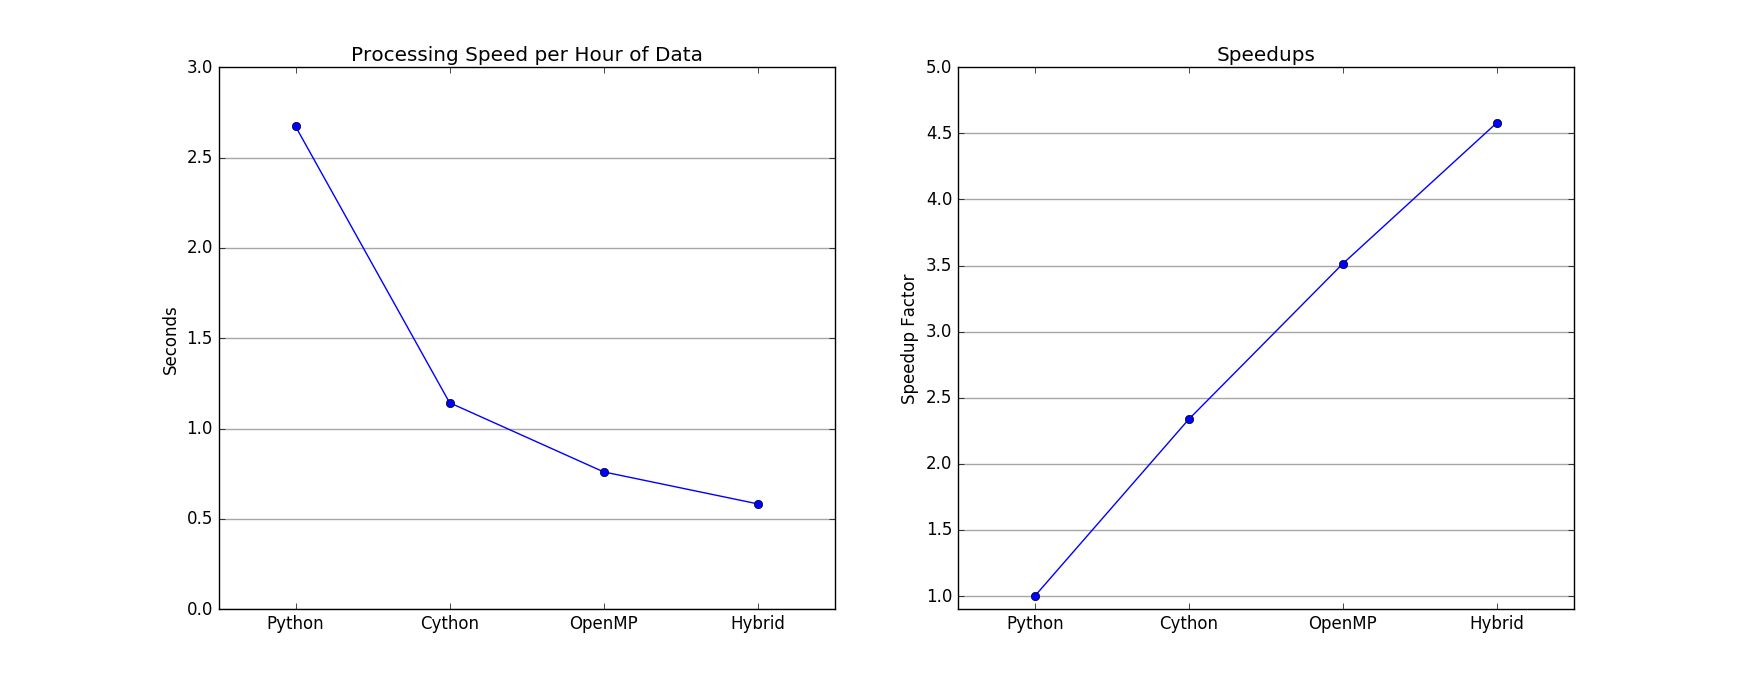
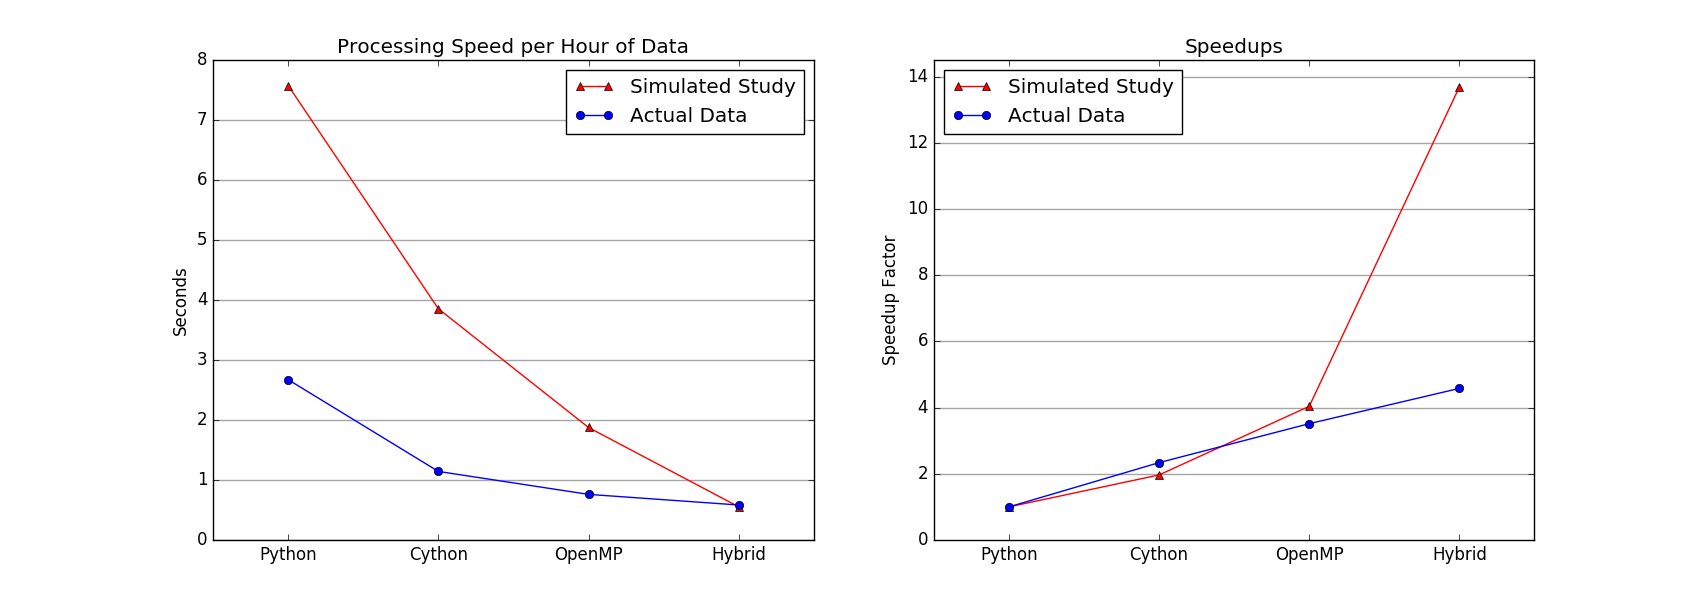
update with simulated data

diff --git a/README.md b/README.md
@@ -54,12 +54,11 @@ After implementing the accelerometer data processing code in Python, several key
 
 !["runtime plots"](https://raw.githubusercontent.com/josh-barback/CS205_project/master/runtime_plots.png)
 
-Each version of the code was benchmarked on a small data set containing 62 hours of accelerometer observations from two participants.  Computation took place on the Odyssey Cluster's `seas_iacs` partition.  Preliminary versions of the code were run on individual nodes equipped with 32 CPUs; hybrid code was run on four such nodes.  Estimates were obtained by averaging runtimes for five repetitions of the data processing task.  The above plots show estimated processing speeds, in seconds per hour of accelerometer data, as well as speedups relative to the baseline of unaccelerated Python code.
+Each version of the code was benchmarked on a small data set containing 62 hours of accelerometer observations from two participants (130 MB).  Additional benchmarks were obtained with data from a simulated pilot study in which ten hypothetical participants contributed data for two weeks (2100 hours of accelerometer observations, 17 GB).
 
-On a single node with 32 processors, the use of C extensions improves runtime by a factor of almost 2.5, and OpenMP functionality yields a speedup factor of over 3.5.  On four contiguous nodes, the hybrid code is over 4.5 times as fast as unaccelerated Python code.  Prior to optimization, each hour of accelerometer data took about 2.5 seconds to process; the optimizations bring this time to under 0.6 seconds.
+Computation took place on the Odyssey Cluster's `seas_iacs` partition.  Preliminary versions of the code were run on individual nodes equipped with 32 CPUs; hybrid code was run on four such nodes.  Estimates for the actual data set were calculated by averaging runtimes for five repetitions of the data processing task.  For the simulated data, the task was completed only once by each version of the code.  The above plots show estimated processing speeds, in seconds per hour of accelerometer data, as well as speedups relative to the baseline of unaccelerated Python code.
+
+On a single node with 32 processors, the use of C extensions improves runtime by a factor of about 2, and OpenMP functionality yields a speedup factor of over 3.5.  On four contiguous nodes, the hybrid code is over 4.5 times as fast as unaccelerated Python code for the actual data task, and almost 14 times as fast for the larger hypothetical data task.  The difference may be due, in part, to startup costs associated with unzipping compressed files.  Only the hybrid code implements concurrent decompression, a considerable advantage for data sets that contain numerous zipped directories.  Prior to optimization, each hour of accelerometer data took multiple seconds to process; the hybrid code brings this processing time to under 0.6 seconds.
 
 
 ## Stage 2:  Imputation for Missing Accelerometer Data
-
-
-
